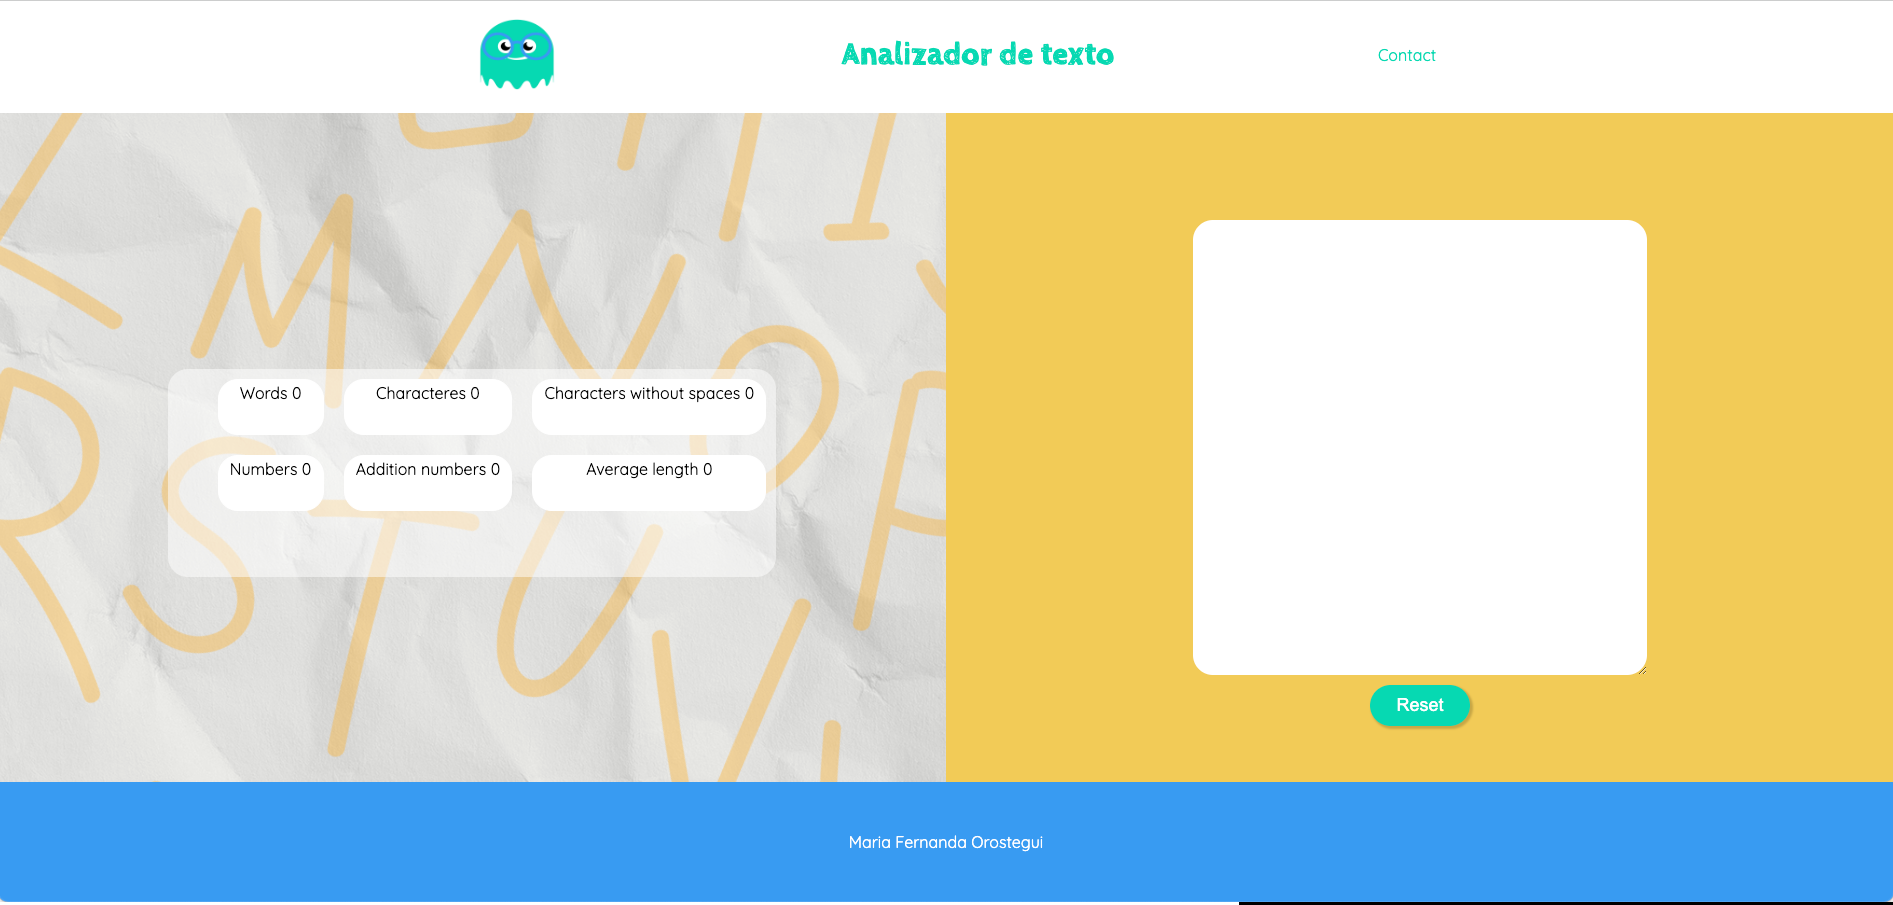
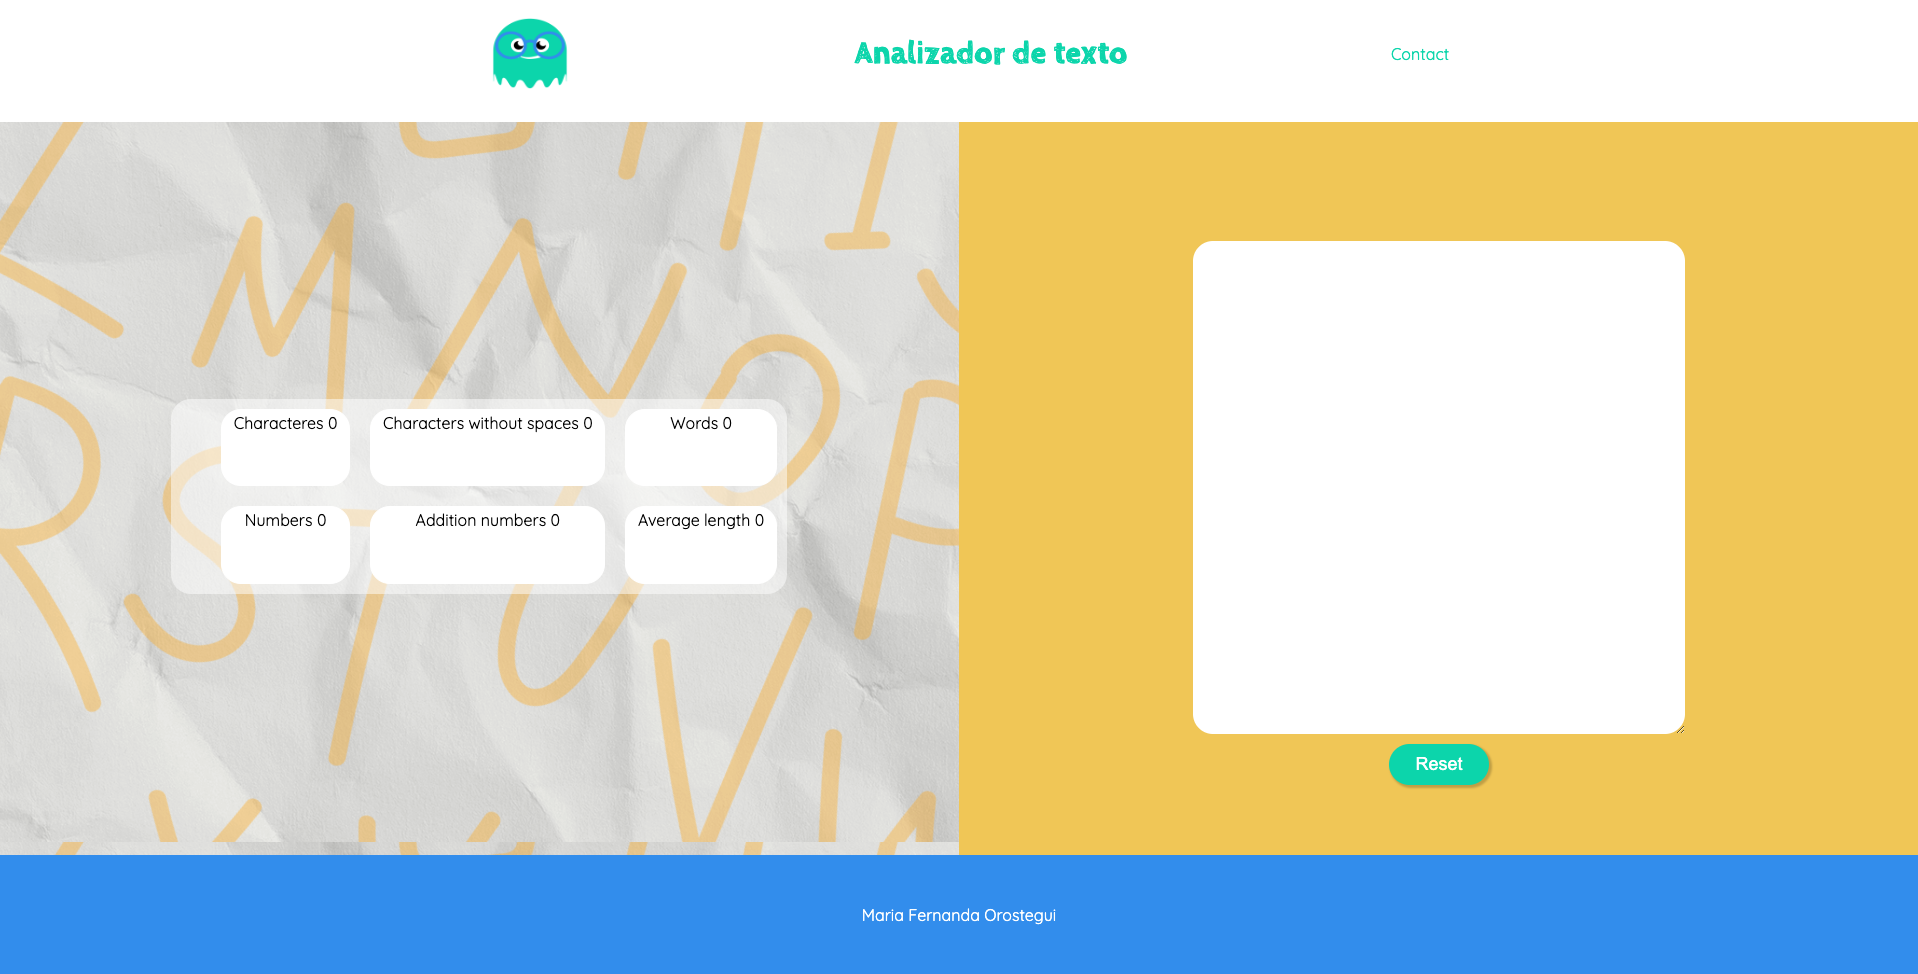
last-version

diff --git a/src/style.css b/src/style.css
@@ -91,9 +91,9 @@ footer {
     grid-row: 2/3;
     grid-column: 2/3;
     grid-template-columns: repeat(3,auto);
-    grid-template-rows: repeat(4, auto);
+    grid-template-rows: repeat(2, auto);
     width: 30vw;
-    height: auto;
+    height: 20vh;
     border-radius: 20px;
 }
 
@@ -105,7 +105,7 @@ footer {
     border-radius: 20px;
     width: auto;
     height:auto;
-    background-color: white;    
+    background-color: white;  
 }
 
 textarea[name="user-input"] {
